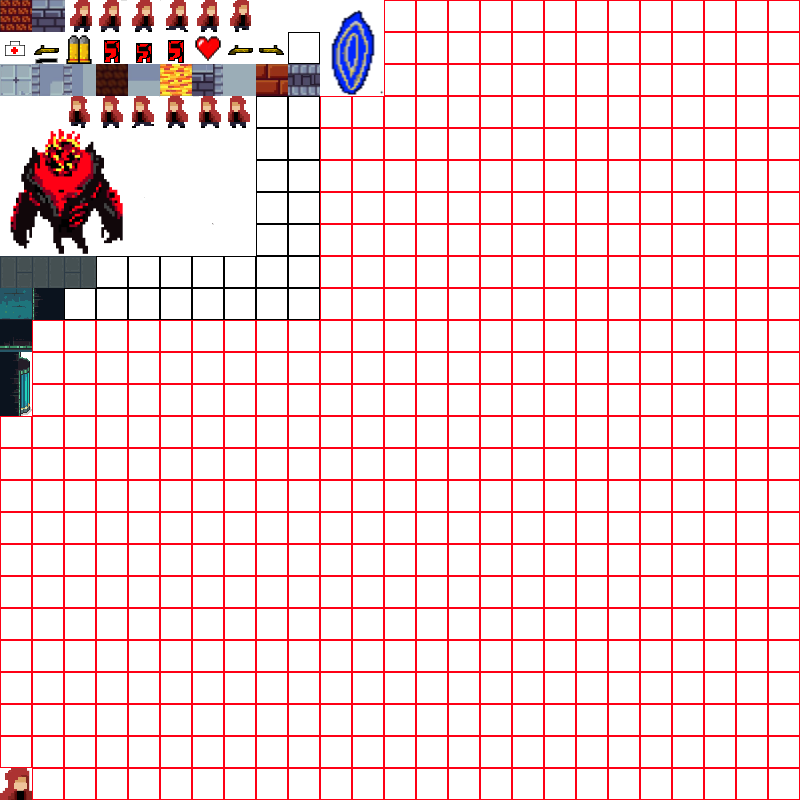
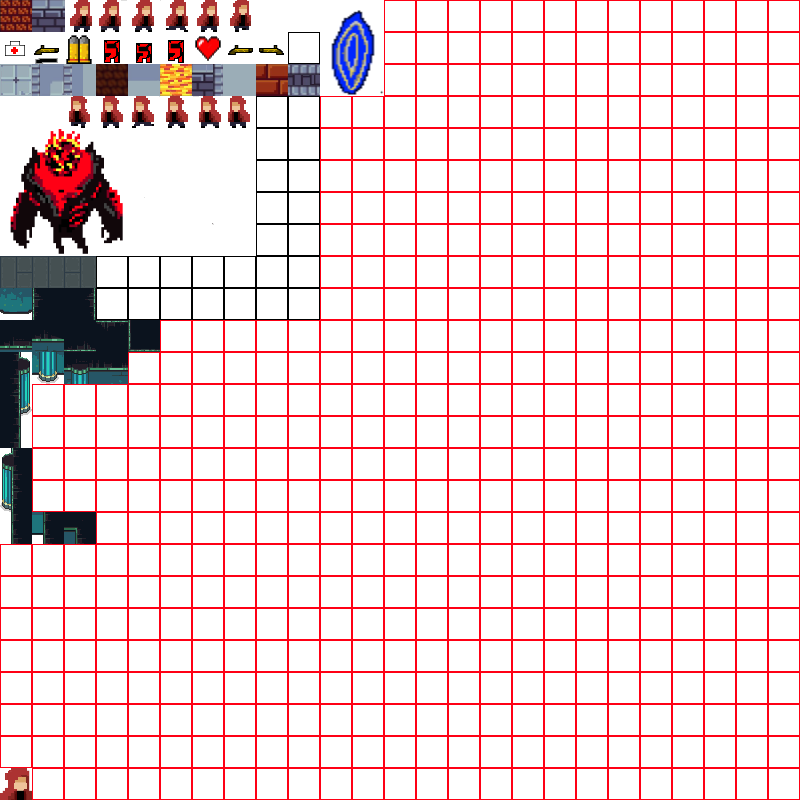
Finalizado estrutura simples mapa_1

Changed region(s): [[0.0, 0.3438, 0.2188, 0.5], [0.0, 0.5, 0.125, 0.6875]]

diff --git a/src/com/xesque/world/Tile.java b/src/com/xesque/world/Tile.java
@@ -6,6 +6,8 @@ import java.awt.image.BufferedImage;
 import com.xesque.main.Game;
 
 public class Tile {
+	// Provavel mapa, citado em World.java
+	/*
 	public static BufferedImage TILE_FLOOR = Game.spritesheet.getSprite(0, 0, 32, 32);
 	public static BufferedImage TILE_WALL = Game.spritesheet.getSprite(32, 0, 32, 32);
 	public static BufferedImage TILE_CRUZ_FLOOR = Game.spritesheet.getSprite(0, 64, 32, 32);
@@ -19,7 +21,7 @@ public class Tile {
 	public static BufferedImage TILE_WALL_STD_COL = Game.spritesheet.getSprite(256, 64, 32, 32);
 	public static BufferedImage TILE_WALL_STD_ROW = Game.spritesheet.getSprite(288, 64, 32, 32);
 	public static BufferedImage TILE_FLOOR_LGRAY = Game.spritesheet.getSprite(224, 64, 32, 32);
-	
+	*/
 	// MAP_1
 	// FLOOR
 	public static BufferedImage TILE_FLOOR_M_1_0 = Game.spritesheet.getSprite(0, 256, 32, 32);
@@ -29,12 +31,49 @@ public class Tile {
 	// WALL
 	public static BufferedImage TILE_WALL_M_1_0 = Game.spritesheet.getSprite(0, 288, 32, 32);
 	public static BufferedImage TILE_WALL_M_1_1 = Game.spritesheet.getSprite(0, 320, 32, 32);
+	
+	// Complemento esquerda do mapa
 	public static BufferedImage TILE_WALL_M_1_2 = Game.spritesheet.getSprite(32, 288, 32, 32);
+	
+	// Complemento direita do mapa
+	public static BufferedImage TILE_WALL_M_1_12 = Game.spritesheet.getSprite(64, 288, 32, 32);
+	// :(
+	public static BufferedImage TILE_WALL_M_1_13 = Game.spritesheet.getSprite(32, 512, 32, 32);
+	// :(
+	public static BufferedImage TILE_WALL_M_1_14 = Game.spritesheet.getSprite(64, 512, 32, 32);
+	
 	// Pilares virados para a direita
 	// Cima
 	public static BufferedImage TILE_WALL_M_1_3 = Game.spritesheet.getSprite(0, 352, 32, 32);
 	// Inferior
 	public static BufferedImage TILE_WALL_M_1_4 = Game.spritesheet.getSprite(0, 384, 32, 32);
+	// Entre os pilares
+	public static BufferedImage TILE_WALL_M_1_5 = Game.spritesheet.getSprite(0, 416, 32, 32);
+	
+	// Pilares parte superior
+	// Cima
+	public static BufferedImage TILE_WALL_M_1_6 = Game.spritesheet.getSprite(64, 352, 32, 32);
+	// Inferior
+	public static BufferedImage TILE_WALL_M_1_7 = Game.spritesheet.getSprite(32, 352, 32, 32);
+	// Entre
+	public static BufferedImage TILE_WALL_M_1_8 = Game.spritesheet.getSprite(96, 352, 32, 32);
+	
+	// Pilares virados para a esquerda
+	// Cima
+	public static BufferedImage TILE_WALL_M_1_9 = Game.spritesheet.getSprite(0, 448, 32, 32);
+	// Inferior
+	public static BufferedImage TILE_WALL_M_1_10 = Game.spritesheet.getSprite(0, 480, 32, 32);
+	// Entre os pilares
+	public static BufferedImage TILE_WALL_M_1_11 = Game.spritesheet.getSprite(0, 512, 32, 32);
+	
+	// Parte inferior do mapa
+	public static BufferedImage TILE_WALL_M_1_15 = Game.spritesheet.getSprite(64, 320, 32, 32);
+	public static BufferedImage TILE_WALL_M_1_16 = Game.spritesheet.getSprite(96, 320, 32, 32);
+	// :(
+	public static BufferedImage TILE_WALL_M_1_17 = Game.spritesheet.getSprite(128, 320, 32, 32);
+	
+	
+	// Fim MAP_1
 	
 	private BufferedImage sprite;
 	

diff --git a/src/com/xesque/main/Game.java b/src/com/xesque/main/Game.java
@@ -269,8 +269,15 @@ public class Game extends Canvas implements Runnable, KeyListener, MouseListener
         
         //Graphics gfx = image.getGraphics();
         // BG
+        switch(CUR_LEVEL)
+        {
+        case 1:
+        	gfx.setColor(new Color(69, 80, 82));
+        break;
+        default:
+        	gfx.setColor(new Color(0, 0, 0));
+        }
         
-        gfx.setColor(new Color(0, 0, 0));
         gfx.fillRect(0, 0, WIDTH * SCALE, HEIGHT * SCALE);
         world.render(gfx);
         
